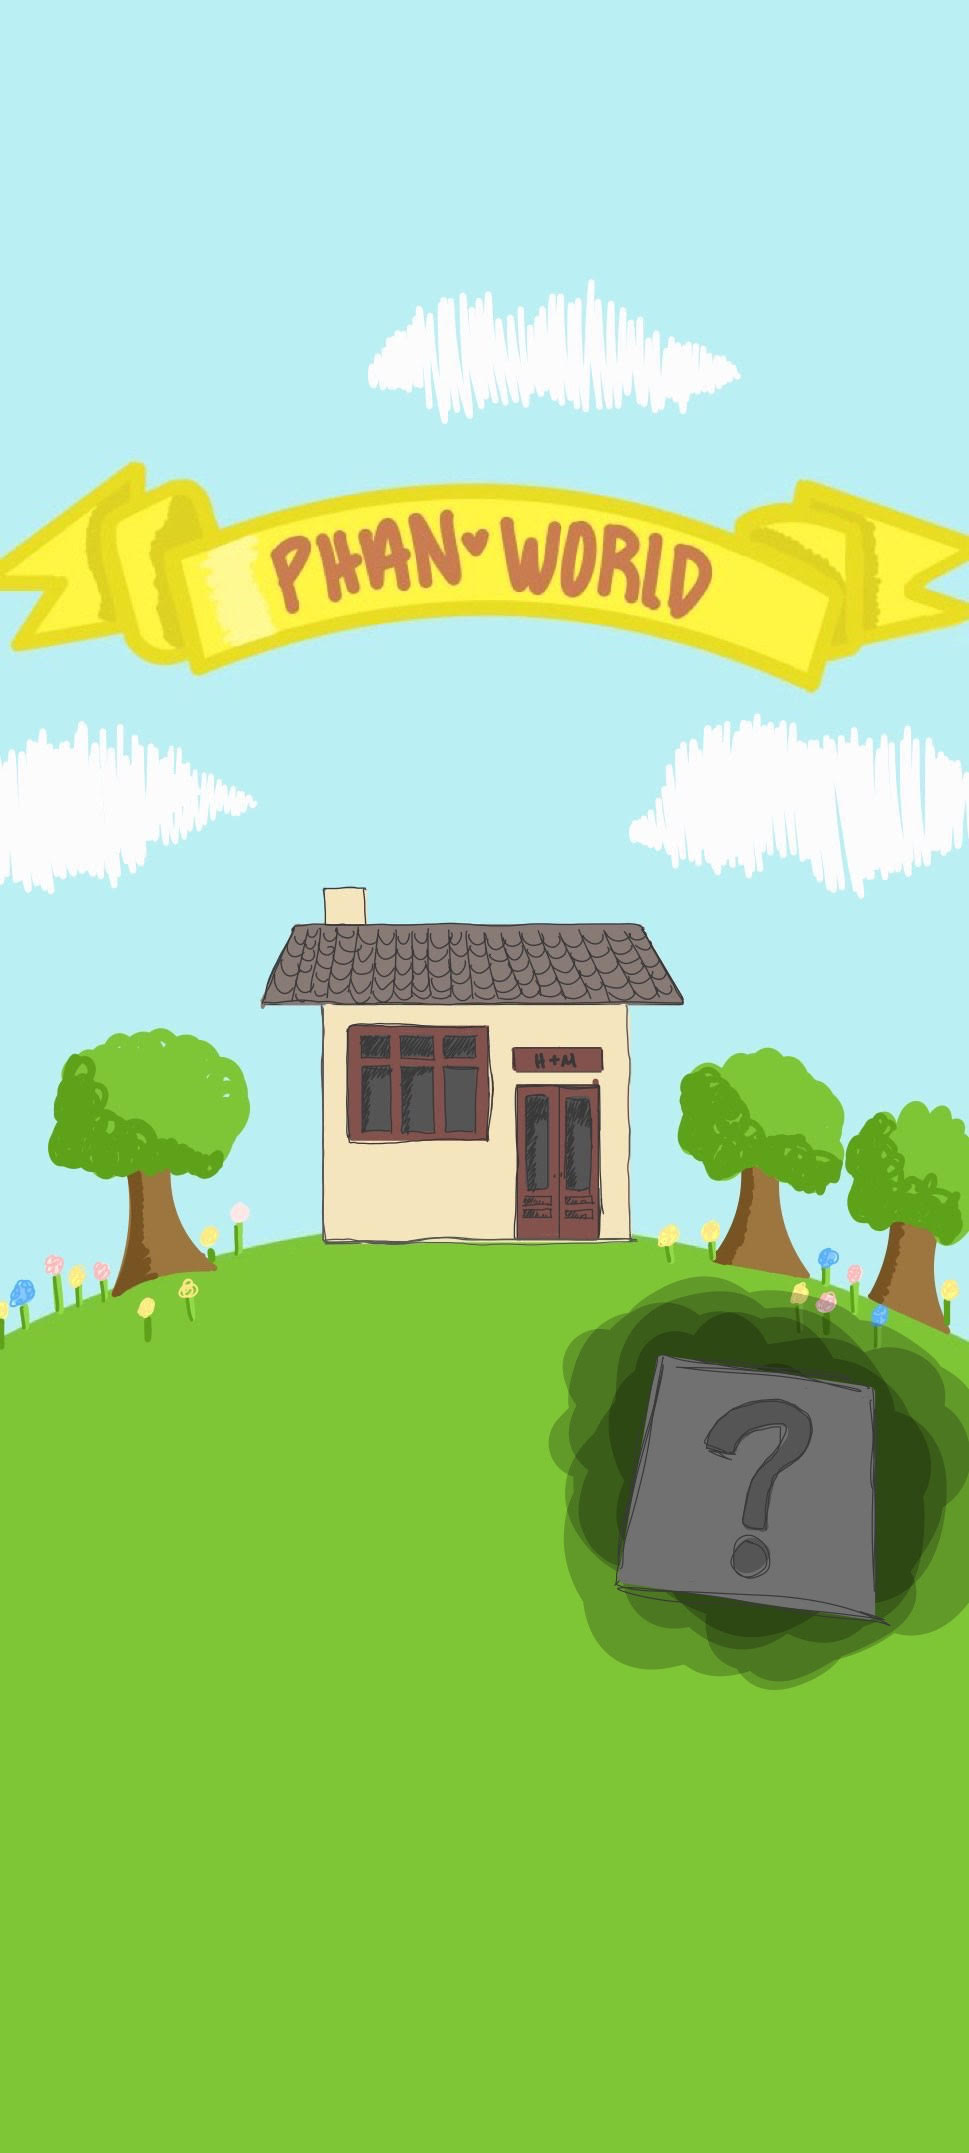
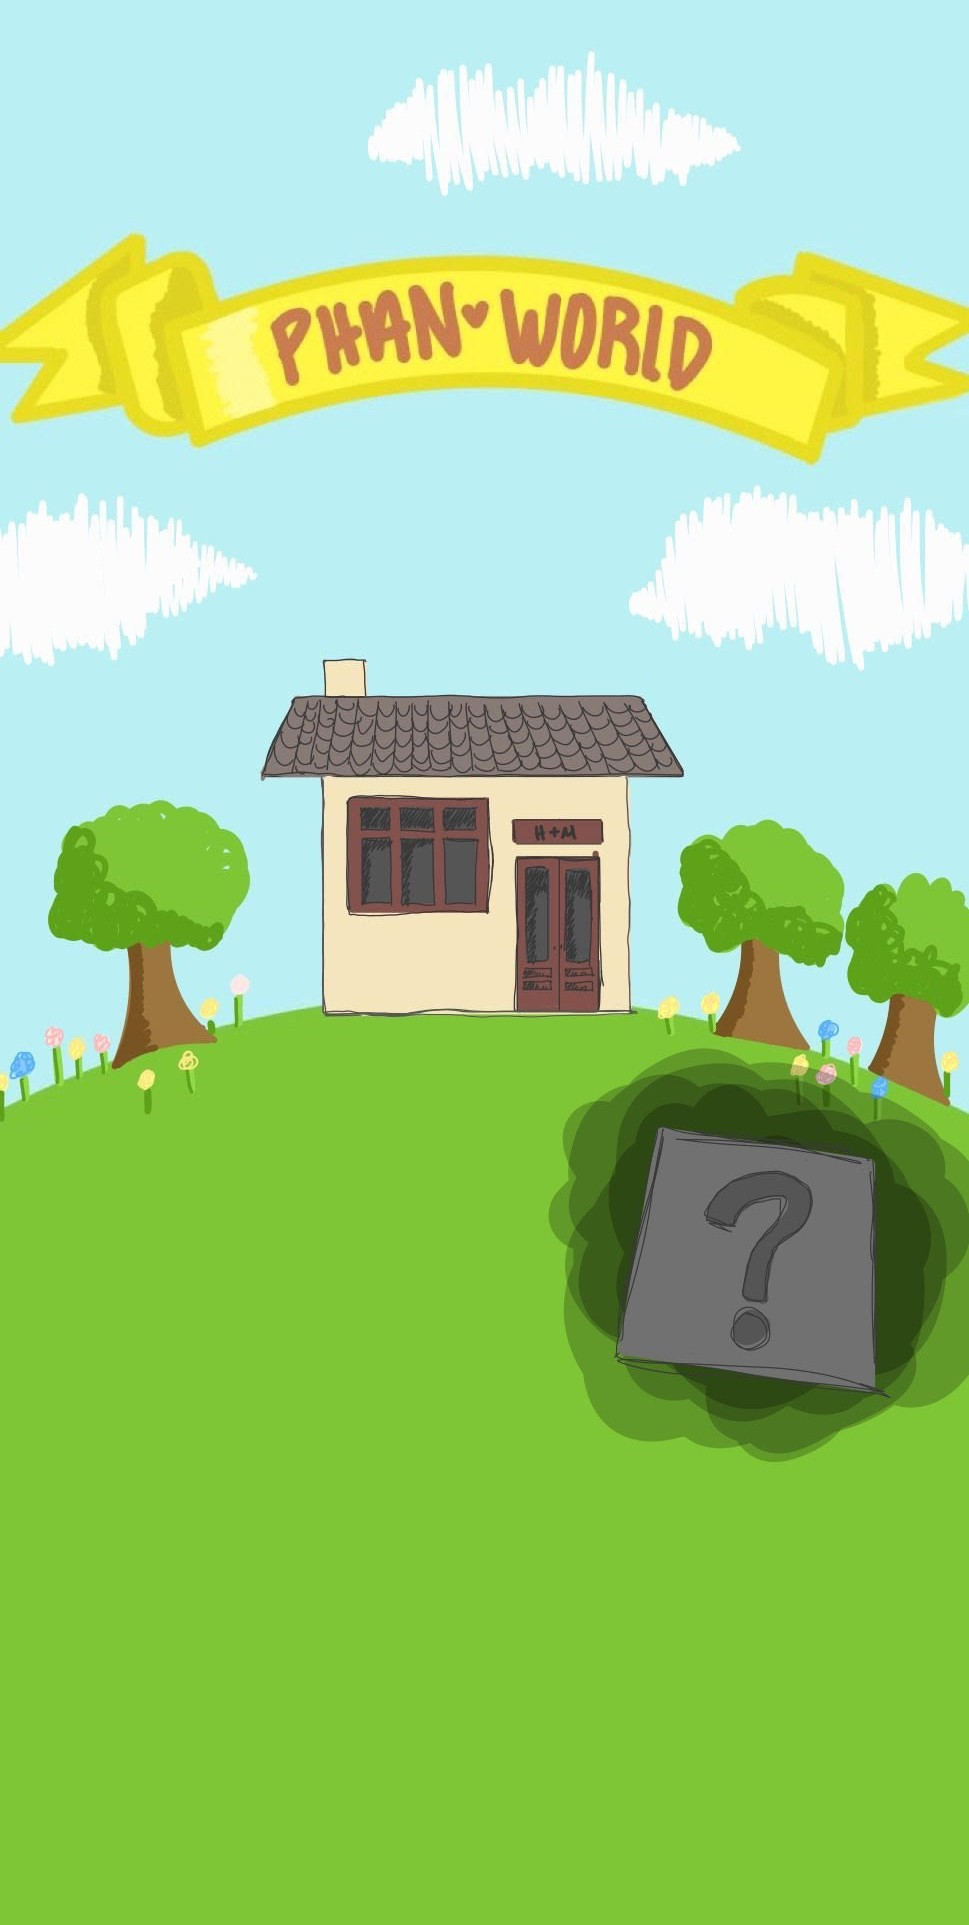
fix: change fixed size to percentages

diff --git a/styles.css b/styles.css
@@ -1,20 +1,25 @@
 #scene {
   position: relative;
-  width: fit-content;
+  width: 100%;
+  max-width: 900px;      /* controls desktop size */
+  margin: 0 auto;       /* center on page */
 }
 
 #background {
+  width: 100%;
+  height: auto;
   display: block;
-  max-width: 100%;
 }
 
 #click-area {
-  position: absolute; /* KEY */
-  top: 340px;
-  left: 120px;
+  position: absolute; 
+  top: 44%;
+  left: 49%;  
 
-  width: 115px;
-  height: 120px;
+  transform: translate(-50%, -50%);
+
+  width: 32%;
+  height: 17%;
 
   background-color: transparent; /* semi-transparent */
 
@@ -30,10 +35,10 @@
 
 /* house icons */
 #popup-icon {
-  top: 307px;
-  left: 91px;
-  width: 177px;
-  height: 177px;
+  top: 43.2%;
+  left: 50%; 
+  transform: translate(-50%, -50%);
+  width: 50%;
 
   position: absolute;
   display: none;
